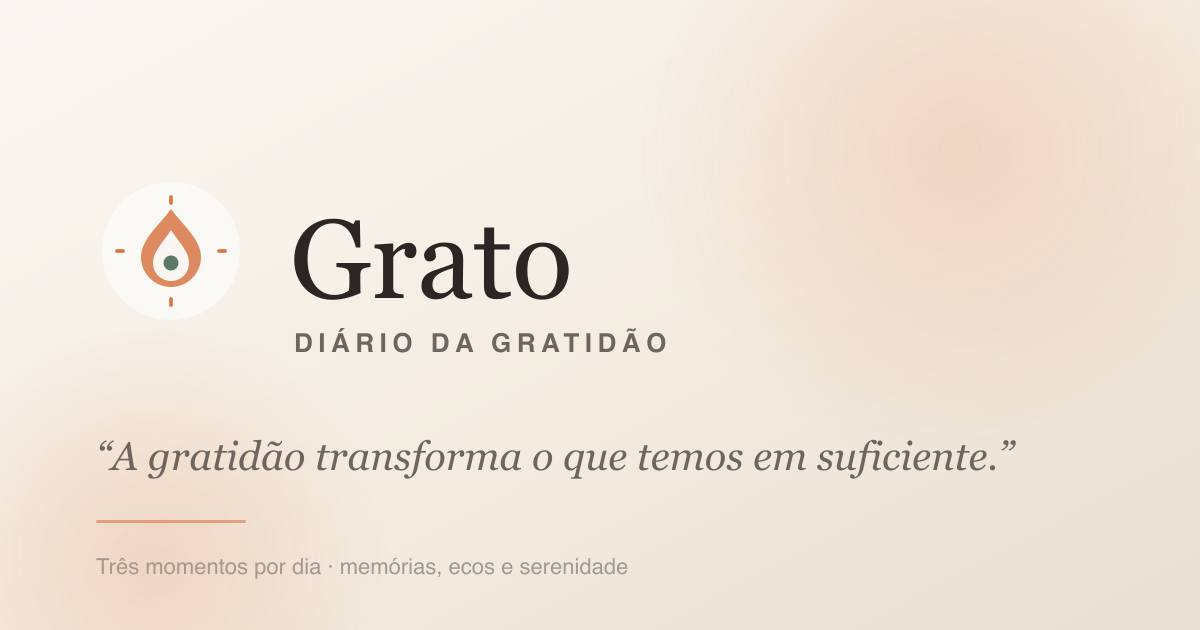
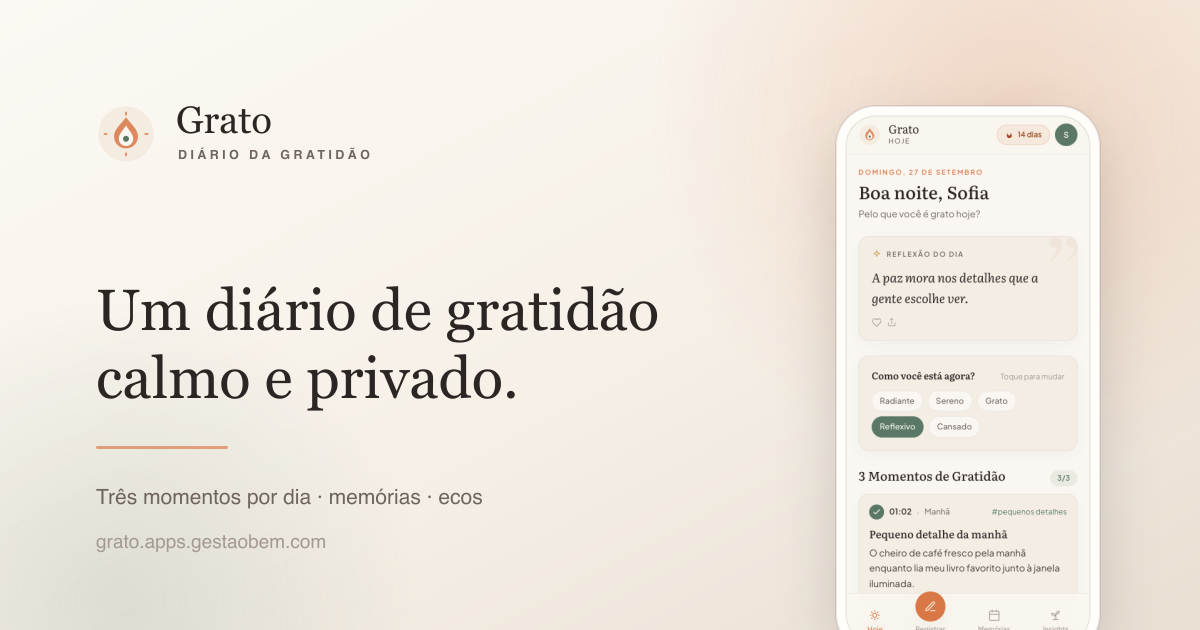
Generate a real Open Graph card and complete the social meta tags
The card was a text-only layout that left most of the frame empty, and the
layouts hand-rolled a partial tag set: no og:description, no og:url, no
Twitter title/description/image, and no og:locale at all on some paths.

Card
- design/og.svg composes the brand lockup, the promise and a phone mockup
  around a real 390x844 capture of the Hoje screen, so the card carries the
  app's actual typography instead of a redrawn facsimile
- sources live in design/ (composition + phone capture) and only the rendered
  web/static/og.png is served

Tags
- amarraData now emits the block through pkg/cais/meta.PreviewHTML instead of
  hand-written tags, absolute against APP_URL because crawlers neither resolve
  relative paths nor run JavaScript
- public pages carry their own description from meta.*.description catalog
  keys, with a brand fallback guarded so a missing key never leaks into a card
- og:locale goes through the catalog so "pt" is advertised as "pt_BR"

Also pass the handler's boot catalog into amarraData: LocaleMiddleware
normally supplies the negotiated one, but without it the page reported the
framework default locale instead of the app's configured one.

preview_test.go pins the full tag set on a diary page, a public page and the
404, plus that og.png exists at the path the card advertises.

diff --git a/web/templates/layouts/app.html b/web/templates/layouts/app.html
@@ -31,13 +31,7 @@
     <meta name="viewport" content="width=device-width, initial-scale=1.0, viewport-fit=cover" />
     {{ if .CSRFToken }}<meta name="csrf-token" content="{{ .CSRFToken }}" />{{ end }}
     <title>{{ if .Title }}{{ .Title }} · Grato{{ else }}Grato · Diário da Gratidão{{ end }}</title>
-    <meta name="description" content="Um diário de gratidão calmo e privado." />
-    <meta property="og:type" content="website" />
-    <meta property="og:site_name" content="Grato" />
-    <meta property="og:title" content="{{ if .Title }}{{ .Title }}{{ else }}Grato{{ end }}" />
-    <meta property="og:image" content="{{ absURL .Site.AppURL "/static/og.png" }}" />
-    <meta property="og:locale" content="{{ ogLocale }}" />
-    <meta name="twitter:card" content="summary_large_image" />
+    {{ .Head }}
     <link rel="preconnect" href="https://fonts.googleapis.com" />
     <link rel="preconnect" href="https://fonts.gstatic.com" crossorigin />
     <link href="https://fonts.googleapis.com/css2?family=Literata:ital,opsz,wght@0,7..72,400;0,7..72,500;0,7..72,600;1,7..72,400&family=Plus+Jakarta+Sans:wght@400;500;600;700&display=swap" rel="stylesheet" />

diff --git a/web/templates/layouts/auth.html b/web/templates/layouts/auth.html
@@ -6,13 +6,7 @@
     <meta name="viewport" content="width=device-width, initial-scale=1.0, viewport-fit=cover" />
     {{ if .CSRFToken }}<meta name="csrf-token" content="{{ .CSRFToken }}" />{{ end }}
     <title>{{ if .Title }}{{ .Title }} · Grato{{ else }}Grato · Diário da Gratidão{{ end }}</title>
-    <meta name="description" content="Um diário de gratidão calmo e privado." />
-    <meta property="og:type" content="website" />
-    <meta property="og:site_name" content="Grato" />
-    <meta property="og:title" content="{{ if .Title }}{{ .Title }}{{ else }}Grato{{ end }}" />
-    <meta property="og:image" content="{{ absURL .Site.AppURL "/static/og.png" }}" />
-    <meta property="og:locale" content="{{ ogLocale }}" />
-    <meta name="twitter:card" content="summary_large_image" />
+    {{ .Head }}
     <link rel="preconnect" href="https://fonts.googleapis.com" />
     <link rel="preconnect" href="https://fonts.gstatic.com" crossorigin />
     <link href="https://fonts.googleapis.com/css2?family=Literata:ital,opsz,wght@0,7..72,400;0,7..72,500;0,7..72,600;1,7..72,400&family=Plus+Jakarta+Sans:wght@400;500;600;700&display=swap" rel="stylesheet" />

diff --git a/internal/handlers/preview_test.go b/internal/handlers/preview_test.go
@@ -1,0 +1,121 @@
+package handlers
+
+import (
+	"net/http"
+	"net/http/httptest"
+	"os"
+	"path/filepath"
+	"strings"
+	"testing"
+
+	"github.com/puppe1990/amarra-cais/pkg/cais"
+	"github.com/puppe1990/amarra-cais/pkg/cais/meta"
+
+	appi18n "github.com/puppe1990/grato/internal/i18n"
+)
+
+// The social card only works if every URL in it is absolute against APP_URL:
+// crawlers never resolve relative paths, and they never run the app's JS.
+func TestDiary_pagesCarryAbsoluteOpenGraphTags(t *testing.T) {
+	h, _, user, _ := newDiaryHandler(t)
+
+	rr := httptest.NewRecorder()
+	h.Today(rr, signedIn(user.ID, http.MethodGet, "/hoje", nil))
+
+	if rr.Code != http.StatusOK {
+		t.Fatalf("status = %d, want 200", rr.Code)
+	}
+	assertPreviewTags(t, rr.Body.String(), "https://cais.example.com/hoje")
+}
+
+// The public pages are the Portuguese ones users actually share, so this
+// asserts against the pt catalog rather than the English test default.
+func TestAuth_pagesCarryTheirOwnPreviewDescription(t *testing.T) {
+	s := setupTestStore(t)
+	h := NewAuthHandler(setupTestViews(t), s, testSite(), s.Sessions(), cais.Config{}, appi18n.NewCatalog("pt"))
+
+	rr := httptest.NewRecorder()
+	h.Login(rr, httptest.NewRequest(http.MethodGet, "/login", nil))
+
+	if rr.Code != http.StatusOK {
+		t.Fatalf("status = %d, want 200", rr.Code)
+	}
+	body := rr.Body.String()
+	assertPreviewTags(t, body, "https://cais.example.com/login")
+	if !strings.Contains(body, "paz interior") {
+		t.Errorf("login should describe itself, got: %s", body)
+	}
+	if !strings.Contains(body, `<meta property="og:locale" content="pt_BR" />`) {
+		t.Errorf("missing og:locale pt_BR, got: %s", body)
+	}
+}
+
+func TestPreviewHead_usesEnglishFallbackWithoutACatalog(t *testing.T) {
+	h, _, user, _ := newDiaryHandler(t)
+
+	rr := httptest.NewRecorder()
+	h.Today(rr, signedIn(user.ID, http.MethodGet, "/hoje", nil))
+
+	// newDiaryHandler installs the default (English) catalog.
+	if !strings.Contains(rr.Body.String(), `<meta property="og:locale" content="en_US" />`) {
+		t.Error("og:locale must be language_TERRITORY, not a bare language tag")
+	}
+}
+
+func TestNotFound_carriesPreviewTags(t *testing.T) {
+	h, s, user, _ := newDiaryHandler(t)
+	handler := NotFound(setupTestViews(t), testSite(), h.catalog, h.cfg, s)
+
+	rr := httptest.NewRecorder()
+	handler(rr, signedIn(user.ID, http.MethodGet, "/nope", nil))
+
+	if rr.Code != http.StatusNotFound {
+		t.Fatalf("status = %d, want 404", rr.Code)
+	}
+	assertPreviewTags(t, rr.Body.String(), "https://cais.example.com/nope")
+}
+
+func assertPreviewTags(t *testing.T, body, wantURL string) {
+	t.Helper()
+	wants := []string{
+		`<meta name="description" content="`,
+		`<meta property="og:type" content="website" />`,
+		`<meta property="og:site_name" content="Grato" />`,
+		`<meta property="og:title" content="`,
+		`<meta property="og:description" content="`,
+		`<meta property="og:image" content="https://cais.example.com/static/og.png" />`,
+		`<meta property="og:url" content="` + wantURL + `" />`,
+		`<meta name="twitter:card" content="summary_large_image" />`,
+		`<meta name="twitter:title" content="`,
+		`<meta name="twitter:description" content="`,
+		`<meta name="twitter:image" content="https://cais.example.com/static/og.png" />`,
+	}
+	for _, want := range wants {
+		if !strings.Contains(body, want) {
+			t.Errorf("missing %s", want)
+		}
+	}
+}
+
+func TestPreviewHead_fallsBackToTheBrandDescription(t *testing.T) {
+	h, _, user, _ := newDiaryHandler(t)
+
+	rr := httptest.NewRecorder()
+	h.Memories(rr, signedIn(user.ID, http.MethodGet, "/memorias", nil))
+
+	if !strings.Contains(rr.Body.String(), "calmo e privado") {
+		t.Error("a page without its own description should fall back to the brand one")
+	}
+}
+
+// The image has to exist at the path the card advertises, otherwise every
+// share renders a broken thumbnail.
+func TestOpenGraphImageExists(t *testing.T) {
+	root := projectRoot(t)
+	if _, err := os.Stat(filepath.Join(root, "web", "static", "og.png")); err != nil {
+		t.Fatalf("og.png missing at the advertised path: %v", err)
+	}
+	if meta.DefaultImagePath != "/static/og.png" {
+		t.Errorf("framework default image path changed to %q", meta.DefaultImagePath)
+	}
+}

diff --git a/internal/handlers/viewdata.go b/internal/handlers/viewdata.go
@@ -1,6 +1,7 @@
 package handlers
 
 import (
+	"html/template"
 	"net/http"
 
 	"github.com/puppe1990/amarra-cais/pkg/amarra/view"
@@ -9,20 +10,82 @@ import (
 	"github.com/puppe1990/amarra-cais/pkg/cais/meta"
 )
 
-func amarraData(r *http.Request, site meta.Site, extra map[string]any) map[string]any {
+// Social card defaults. The image lives at the path the framework expects, so
+// a future `amarra-cais pwa` pass keeps recognising it as a replaced brand
+// asset instead of resetting it to the scaffold placeholder.
+const (
+	appName            = "Grato"
+	defaultDescription = "Um diário de gratidão calmo e privado: três momentos por dia, memórias, ecos e serenidade."
+	ogImagePath        = "/static/og.png"
+)
+
+// amarraData assembles the layout payload. fallback is the boot catalog the
+// handler was built with: LocaleMiddleware normally supplies the negotiated
+// one on the request, but a render without it must still reflect the app's
+// configured locale rather than the framework default.
+func amarraData(r *http.Request, site meta.Site, fallback *i18n.Catalog, extra map[string]any) map[string]any {
 	s := meta.ForRequest(site, r)
+	locale := fallback.Locale()
+	if cat := i18n.CatalogFromRequest(r); cat != nil {
+		locale = cat.Locale()
+	}
+
 	data := map[string]any{
 		"Site":      s,
 		"CSRFToken": s.CSRFToken,
 		"Flash":     s.Flash,
-	}
-	if cat := i18n.CatalogFromRequest(r); cat != nil {
-		data["Locale"] = cat.Locale()
+		"Locale":    locale,
+		"Head":      previewHead(r, s, locale, extra),
 	}
 	for k, v := range extra {
 		data[k] = v
 	}
 	return data
+}
+
+// previewHead renders the Open Graph / Twitter block for the page. Every URL
+// is absolute against APP_URL because crawlers neither resolve relative paths
+// nor run the app's JavaScript.
+func previewHead(r *http.Request, site meta.Site, locale string, extra map[string]any) template.HTML {
+	preview := meta.Preview{
+		Title:       previewField(extra, "Title"),
+		Description: previewField(extra, "Description"),
+		SiteName:    appName,
+		SiteURL:     site.AppURL,
+		Path:        r.URL.Path,
+		Image:       ogImagePath,
+		Locale:      previewLocale(locale),
+		Type:        "website",
+	}
+	if preview.Title == "" {
+		preview.Title = appName
+	}
+	if preview.Description == "" {
+		preview.Description = defaultDescription
+	}
+	return template.HTML(meta.PreviewHTML(preview))
+}
+
+func previewField(extra map[string]any, key string) string {
+	value, _ := extra[key].(string)
+	return value
+}
+
+// previewLocale maps a locale to the language_TERRITORY form crawlers expect,
+// so "pt" is advertised as "pt_BR" rather than a bare "pt".
+func previewLocale(locale string) string {
+	return i18n.NewCatalog(locale).OGLocale()
+}
+
+// pageDescription reads a page's social copy from the catalog. An absent key
+// renders as the key itself, which would leak into the card, so anything
+// unknown falls back to the brand description instead.
+func pageDescription(catalog *i18n.Catalog, page string) string {
+	key := "meta." + page + ".description"
+	if message := catalog.T(key); message != key {
+		return message
+	}
+	return ""
 }
 
 // writeView names the layout at the call site: an app with a second layout (a

diff --git a/internal/i18n/pt.go b/internal/i18n/pt.go
@@ -208,4 +208,11 @@ var ptMessages = map[string]string{
 	"error.not_found_title": "Não encontramos esta página",
 	"error.not_found_body":  "Talvez o caminho tenha mudado. Volte para o seu diário e continue de onde parou.",
 	"error.not_found_cta":   "Voltar para Hoje",
+
+	// Social preview copy for the pages a crawler can reach.
+	"meta.login.description":           "Reserve alguns minutos para cultivar a gratidão e a paz interior hoje. Um diário calmo, privado e sem ruído.",
+	"meta.signup.description":          "Crie seu espaço sagrado para cultivar paz, positividade e presença plena todos os dias.",
+	"meta.forgot_password.description": "Recupere o acesso ao seu diário de gratidão.",
+	"meta.reset_password.description":  "Escolha uma nova senha e volte para o seu diário de gratidão.",
+	"meta.not_found.description":       "Esta página não existe. Volte para o seu diário de gratidão e continue de onde parou.",
 }

diff --git a/internal/i18n/en.go b/internal/i18n/en.go
@@ -208,4 +208,11 @@ var enMessages = map[string]string{
 	"error.not_found_title": "We could not find this page",
 	"error.not_found_body":  "Maybe the path changed. Head back to your journal and continue where you left off.",
 	"error.not_found_cta":   "Back to Today",
+
+	// Social preview copy for the pages a crawler can reach.
+	"meta.login.description":           "Take a few minutes to cultivate gratitude and inner peace today. A calm, private journal without the noise.",
+	"meta.signup.description":          "Create your sacred space to cultivate peace, positivity and full presence every day.",
+	"meta.forgot_password.description": "Recover access to your gratitude journal.",
+	"meta.reset_password.description":  "Choose a new password and return to your gratitude journal.",
+	"meta.not_found.description":       "This page does not exist. Head back to your gratitude journal and continue where you left off.",
 }

diff --git a/internal/handlers/auth.go b/internal/handlers/auth.go
@@ -40,7 +40,14 @@ func (h *AuthHandler) renderAuth(w http.ResponseWriter, r *http.Request, name st
 	if _, ok := extra["Title"]; !ok {
 		extra["Title"] = h.catalog.T("auth.login_title")
 	}
-	writeView(w, r, h.views, h.cfg, "app", name, amarraData(r, h.site, extra), status)
+	// Public pages are the only ones a crawler ever sees, so each carries its
+	// own social description.
+	if _, ok := extra["Description"]; !ok {
+		if description := pageDescription(h.catalog, name); description != "" {
+			extra["Description"] = description
+		}
+	}
+	writeView(w, r, h.views, h.cfg, "app", name, amarraData(r, h.site, h.catalog, extra), status)
 }
 
 func (h *AuthHandler) Login(w http.ResponseWriter, r *http.Request) {

diff --git a/internal/handlers/entry.go b/internal/handlers/entry.go
@@ -32,9 +32,10 @@ func NotFound(views *view.Renderer, site meta.Site, catalog *i18n.Catalog, cfg c
 				layout, nav = "app", "today"
 			}
 		}
-		writeView(w, r, views, cfg, layout, "not_found", amarraData(r, site, map[string]any{
-			"Title":     catalog.T("error.not_found_title"),
-			"ActiveNav": nav,
+		writeView(w, r, views, cfg, layout, "not_found", amarraData(r, site, catalog, map[string]any{
+			"Title":       catalog.T("error.not_found_title"),
+			"Description": pageDescription(catalog, "not_found"),
+			"ActiveNav":   nav,
 		}), http.StatusNotFound)
 	}
 }

diff --git a/internal/handlers/diary.go b/internal/handlers/diary.go
@@ -62,7 +62,7 @@ func (h *DiaryHandler) currentUser(w http.ResponseWriter, r *http.Request) (mode
 }
 
 func (h *DiaryHandler) render(w http.ResponseWriter, r *http.Request, user *models.User, name string, extra map[string]any, status int) {
-	data := amarraData(r, h.site, extra)
+	data := amarraData(r, h.site, h.catalog, extra)
 	if user != nil {
 		h.addHeaderData(data, *user)
 	}

diff --git a/internal/db/runseed_main.go b/internal/db/runseed_main.go
@@ -5,9 +5,10 @@ package main
 import (
 	"log"
 
+	"github.com/puppe1990/amarra-cais/pkg/cais"
+
 	"github.com/puppe1990/grato/internal/db"
 	"github.com/puppe1990/grato/internal/store"
-	"github.com/puppe1990/amarra-cais/pkg/cais"
 )
 
 func main() {

diff --git a/README.md b/README.md
@@ -68,6 +68,7 @@ internal/testdata/     seeded faker builders shared by every test package
 internal/i18n/         pt/en copy + locale-aware date formatting
 web/templates/         layouts/ + pages/ + restyled kit components
 web/static/            Tailwind CSS, amarra.js, PWA (icons, manifest, service worker)
+design/                social card sources: og.svg + the phone capture it embeds
 ```
 
 Two decisions worth knowing:
@@ -99,19 +100,47 @@ make ci                 # test + lint + format-check
 The i18n key-parity test exists because a missing key renders as the raw key
 into the page — which is exactly how `nav.register` once leaked into the layout.
 
-## PWA
+## PWA and social cards
 
-Icons and the OG image are generated from the design's flame mark, which is
-kept as vector source next to the raster output:
+Icons and the social card are generated from the design's flame mark. The
+vector sources live next to the raster output for the icons, and in `design/`
+for the card — `design/` holds the composition plus the phone screenshot it
+embeds, so nothing that only feeds a build step ends up served publicly:
 
 ```bash
+# PWA icons
 rsvg-convert -w 512 -h 512 web/static/icons/icon.svg -o web/static/icons/icon-512.png
-rsvg-convert -w 1200 -h 630 web/static/og.svg -o web/static/og.png
+rsvg-convert -w 192 -h 192 web/static/icons/icon.svg -o web/static/icons/icon-192.png
+rsvg-convert -w 180 -h 180 web/static/icons/icon.svg -o web/static/icons/icon.png
+rsvg-convert -w 512 -h 512 web/static/icons/icon-maskable.svg -o web/static/icons/icon-512-maskable.png
+
+# Open Graph card (1200x630) — embeds design/og-phone.png
+rsvg-convert -w 1200 -h 630 design/og.svg -o web/static/og.png
 ```
 
 `icon-maskable.svg` bleeds its plate to the edges and keeps the mark inside
 the inner 80% safe zone, so Android launchers can crop it to a circle without
 clipping the flame.
+
+`design/og-phone.png` is a real capture of the Hoje screen (390x844, Chrome at
+device width), so the card carries the app's actual typography instead of a
+redrawn facsimile. Re-capture it at `/hoje` with a full day recorded:
+
+```bash
+playwright-cli resize 390 844 && playwright-cli goto http://localhost:8080/hoje
+playwright-cli screenshot --filename=design/og-phone.png
+```
+
+The card's own text uses Georgia, an editorial serif standing in for Literata
+because the rasteriser does not have Literata installed — the real typeface is
+carried by the embedded screenshot. Everything else — `og:title`,
+`og:description`, `og:url`, `og:locale`, `og:image`, and the full Twitter
+card — is generated per page by `pkg/cais/meta.PreviewHTML` in
+`amarraData`, absolute against `APP_URL` because crawlers neither resolve
+relative paths nor run JavaScript. Public pages carry their own description
+from the `meta.*.description` catalog keys; everything else falls back to the
+brand one. `internal/handlers/preview_test.go` pins both the tag set and the
+fact that `web/static/og.png` exists at the advertised path.
 
 ## Deploy
 
